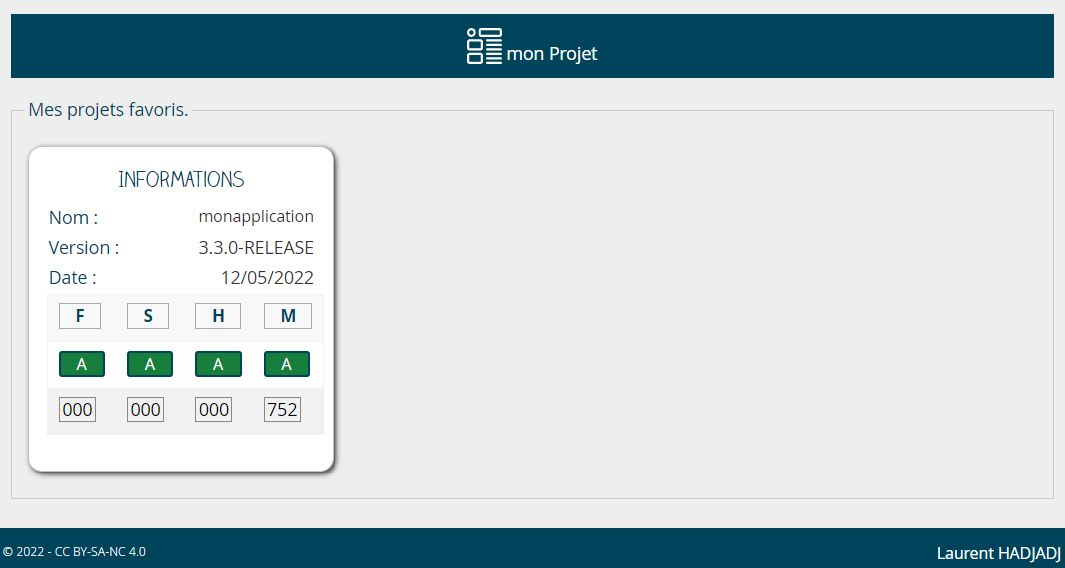
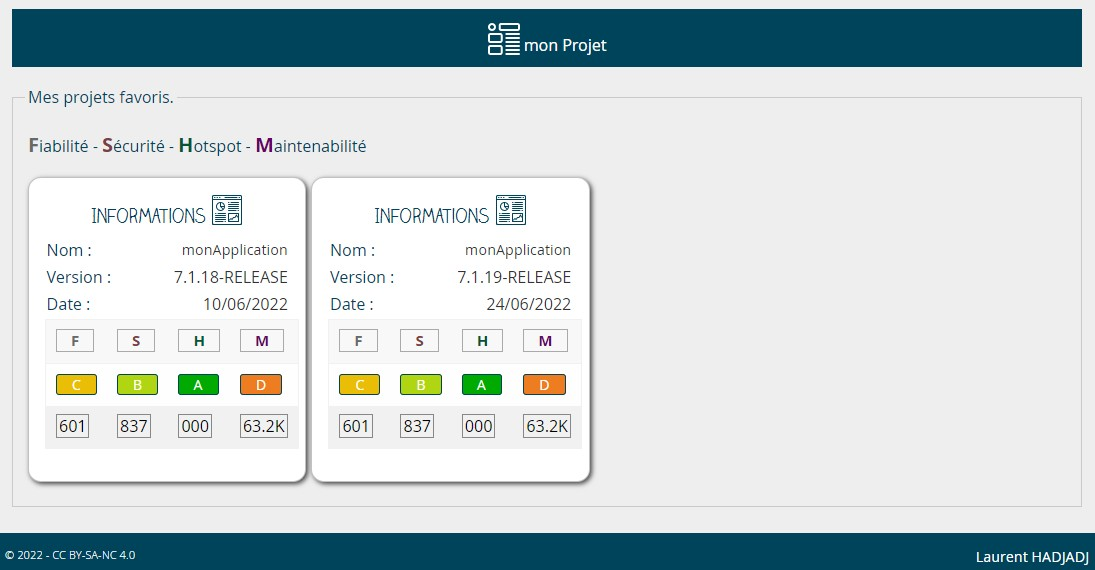
update: ajout du lien COSUI

diff --git a/documentation/repartition_details.md b/documentation/repartition_details.md
@@ -17,6 +17,7 @@
 [Projet](/documentation/projet.md)
 [OWASP](/documentation/owasp.md)
 [Suivi](/documentation/suivi.md)
+[COSUI](/documentation/cosui.md)
 [**Répartition détaillée**](/documentation/repartition_details.md)
 
 ### Répartition détaillée par module

diff --git a/documentation/suivi.md b/documentation/suivi.md
@@ -17,6 +17,7 @@
 [Projet](/documentation/projet.md)
 [OWASP](/documentation/owasp.md)
 [**Suivi**](/documentation/suivi.md)
+[COSUI](/documentation/cosui.md)
 [Répartition détaillée](/documentation/repartition_details.md)
 
 ### Page Suivi des indicateurs

diff --git a/documentation/accueil.md b/documentation/accueil.md
@@ -17,6 +17,7 @@
 [Projet](/documentation/projet.md)
 [OWASP](/documentation/owasp.md)
 [Suivi](/documentation/suivi.md)
+[COSUI](/documentation/cosui.md)
 [Répartition détaillée](/documentation/repartition_details.md)
 
 ### Page d'accueil

diff --git a/documentation/owasp.md b/documentation/owasp.md
@@ -17,6 +17,7 @@
 [Projet](/documentation/projet.md)
 [**OWASP**](/documentation/owasp.md)
 [Suivi](/documentation/suivi.md)
+[COSUI](/documentation/cosui.md)
 [Répartition détaillée](/documentation/repartition_details.md)
 
 ### Page OWASP

diff --git a/documentation/projet.md b/documentation/projet.md
@@ -17,6 +17,7 @@
 [**Projet**](/documentation/projet.md)
 [OWASP](/documentation/owasp.md)
 [Suivi](/documentation/suivi.md)
+[COSUI](/documentation/cosui.md)
 [Répartition détaillée](/documentation/repartition_details.md)
 
 
